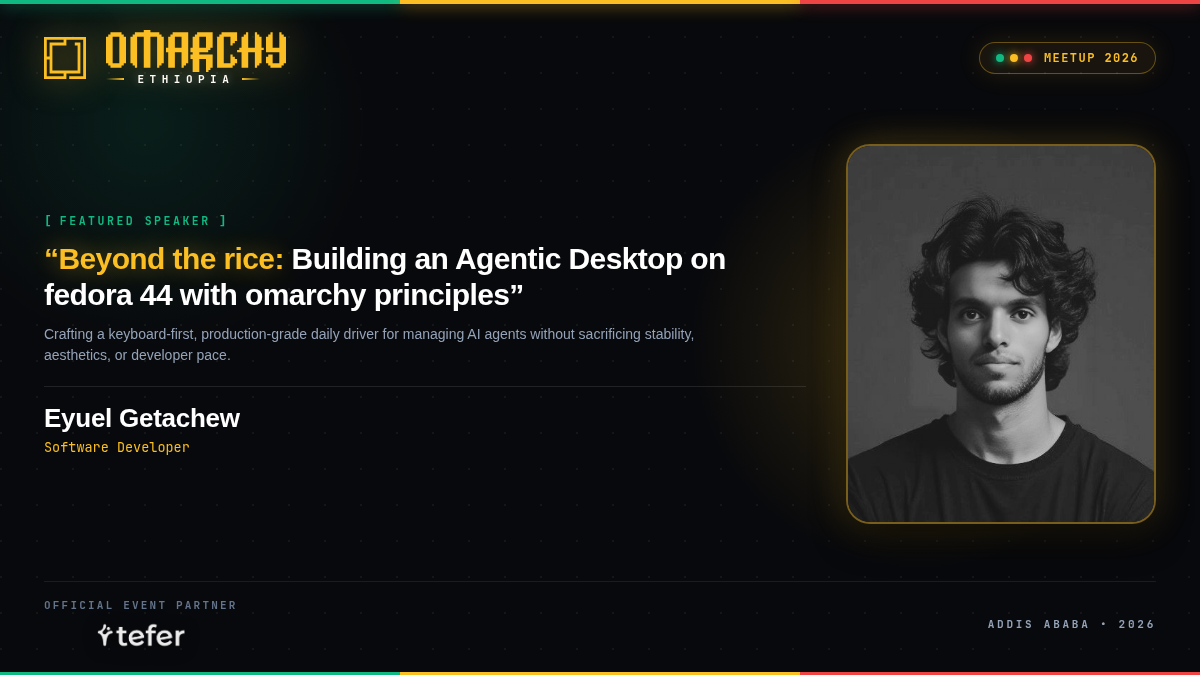
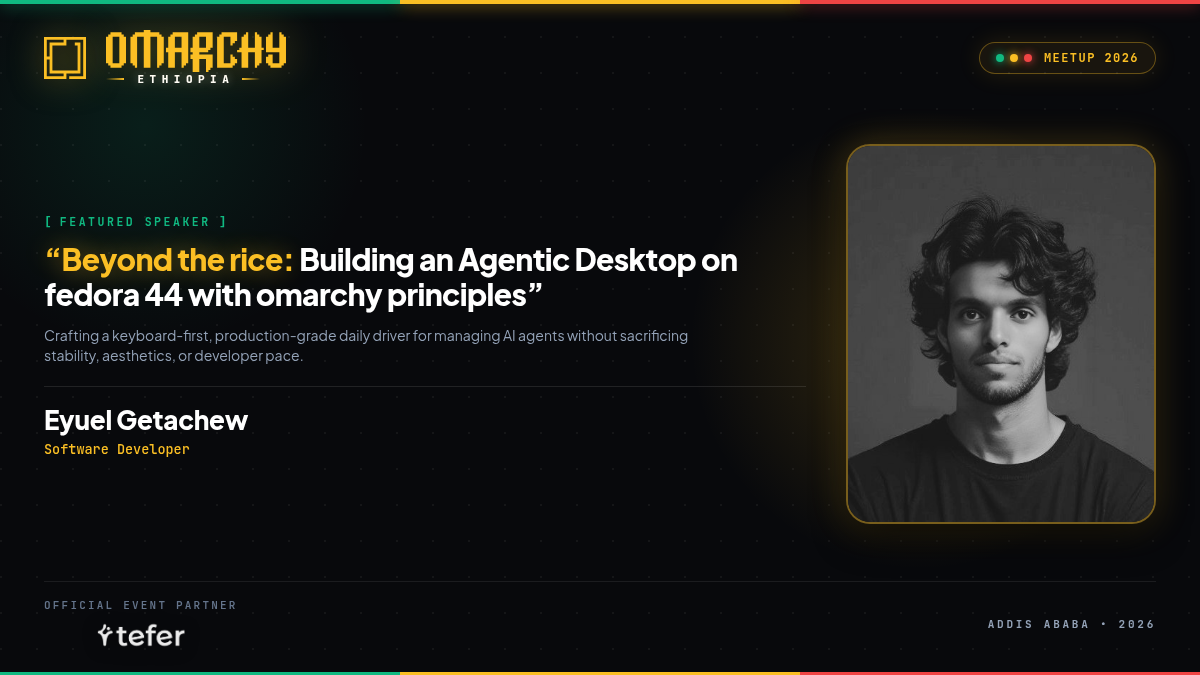
chore: remove flag and city overlay from speaker photos

Changed region(s): [[0.0308, 0.3422, 0.6167, 0.56], [0.0308, 0.5911, 0.2158, 0.6844], [0.0617, 0.3111, 0.185, 0.3422]]

diff --git a/scripts/generate_speaker_graphics.py b/scripts/generate_speaker_graphics.py
@@ -364,27 +364,6 @@ def render_single_speaker_square(speaker, tefer_b64):
     object-position: {speaker.get("img_position", "center 15%")};
     display: block;
   }}
-
-  .portrait-bottom-banner {{
-    position: absolute;
-    bottom: 0;
-    left: 0;
-    right: 0;
-    padding: 24px 20px 18px 20px;
-    background: linear-gradient(180deg, transparent 0%, rgba(8, 9, 12, 0.95) 90%);
-    display: flex;
-    align-items: center;
-    justify-content: space-between;
-    z-index: 10;
-  }}
-
-  .bottom-flag-micro {{
-    display: flex;
-    height: 3px;
-    width: 60px;
-    border-radius: 2px;
-    overflow: hidden;
-  }}
 </style>
 </head>
 <body>
@@ -450,17 +429,6 @@ def render_single_speaker_square(speaker, tefer_b64):
       <div class="portrait-container">
         <div class="portrait-frame">
           <img src="{speaker['photo_b64']}" alt="{speaker['name']}" class="portrait-image" />
-
-          <div class="portrait-bottom-banner">
-            <div class="bottom-flag-micro">
-              <div style="flex: 1; background: #10b981;"></div>
-              <div style="flex: 1; background: #fbbf24;"></div>
-              <div style="flex: 1; background: #ef4444;"></div>
-            </div>
-            <span style="font-family: 'JetBrains Mono', monospace; font-size: 11px; color: #94a3b8; letter-spacing: 0.1em;">
-              ADDIS ABABA
-            </span>
-          </div>
         </div>
       </div>
     </main>
